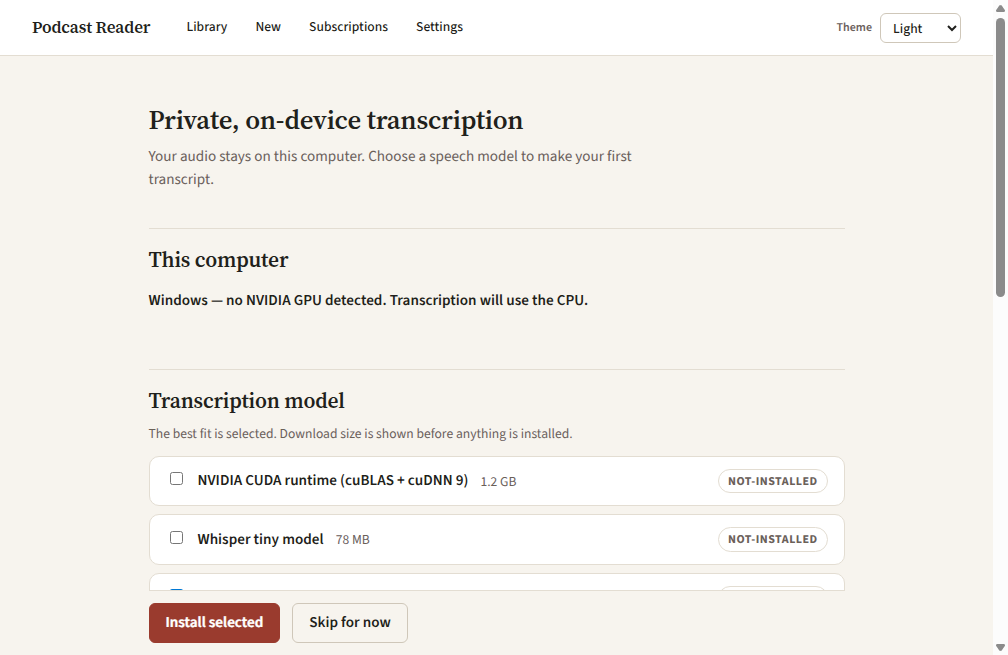
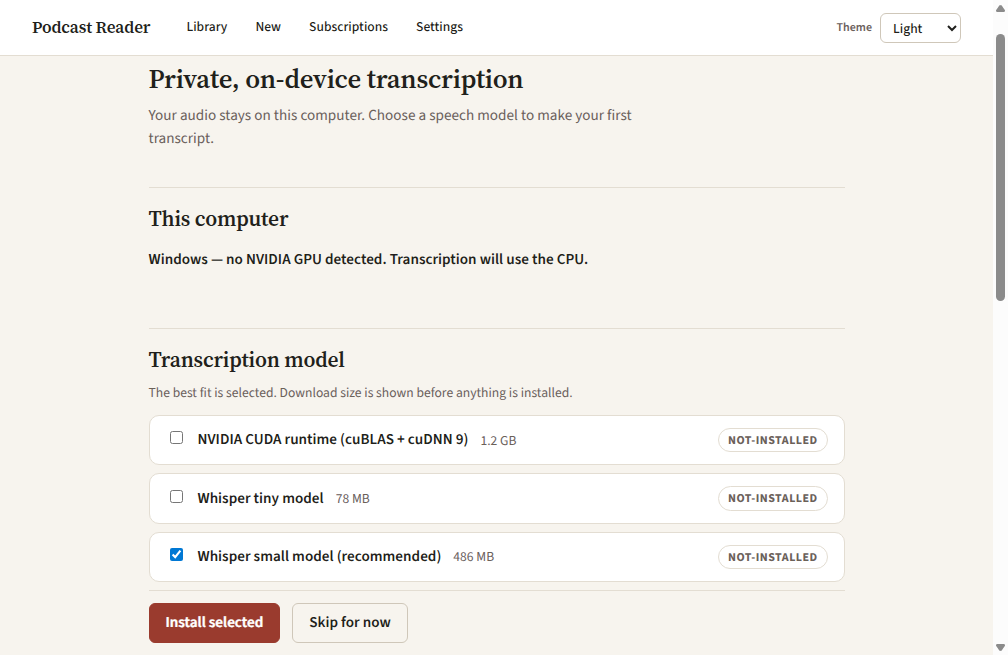
Refresh wizard screenshot provenance (#201)

diff --git a/site/assets/screenshots/DRIFT-WAIVERS.md b/site/assets/screenshots/DRIFT-WAIVERS.md
@@ -17,52 +17,3 @@ records are listed below; a record is active only until its stated expiry condit
 - Review: independent review is required before merge.
 - Expiry: this waiver applies only to PR #190 and expires when that PR merges. No
   follow-up issue is required because the affected files are test fixtures only.
-
-## Issue #194 — wizard clearance implementation stage
-
-- Scope: `app/src/renderer/src/views/setup.ts`, `app/src/renderer/src/style.css`,
-  `app/tests/e2e/packs.spec.ts`, and `app/tests/install/walkthrough.mjs`.
-- Reason: the renderer change must merge before an installed walkthrough can truthfully
-  capture it from exact main. The currently published first-run frame remains historical
-  evidence and is known to show the model-row overlap this change fixes.
-- Review: independently review the measured clearance and its 100%/125% Light/Dark
-  negative and positive-control geometry gates before merging the implementation stage.
-- Expiry: PR #196 has merged, but this record remains only until the required exact-main
-  24-frame metadata and affected published assets are refreshed after PR #198.
-
-## PR #198 — installed wizard capture visibility gate
-
-- Scope: `app/tests/install/walkthrough.mjs` only.
-- Reason: this is a test-only capture-gate correction; production renderer code and pixels
-  are unchanged. Exact-main run 31070139538 was deliberately withheld because the prior
-  gate admitted a first-run frame whose action bar was outside the viewport.
-- Review: independently review the positive-height and full-viewport action bounds while
-  retaining measured clearance and model-row/action non-overlap checks.
-- Expiry: PR #198 has merged, but run 31070934606 exposed the capture-coordinate defect
-  covered by PR #199. Remove this record with the validated post-#199 provenance refresh.
-
-## PR #199 — scrolled viewport screenshot coordinates
-
-- Scope: `app/tests/install/capture-evidence.mjs` and its focused unit test only.
-- Reason: this is test-evidence infrastructure; production renderer code and pixels are
-  unchanged. Exact-main run 31070934606 was deliberately withheld because its geometry
-  gate evaluated a scrolled viewport while the raw screenshot clip remained at document
-  origin, so the PNG did not depict the gated state.
-- Review: independently verify that viewport captures use scroll coordinates, full-page
-  captures remain origin-based, and the focused regression exercises nonzero offsets.
-- Expiry: PR #199 has merged, but run 31071454554 exposed the target-row mismatch covered
-  by PR #200. Remove this record with the validated post-#200 provenance refresh.
-
-## PR #200 — capture the wizard row that needed clearance
-
-- Scope: `app/tests/install/walkthrough.mjs` only.
-- Reason: this is a test-only capture-state correction; production renderer code and pixels
-  are unchanged. Exact-main run 31071454554 was deliberately withheld because it gated an
-  off-screen final row while the published viewport still showed an earlier row under the
-  sticky actions.
-- Review: independently verify that the walkthrough identifies the row intersecting the
-  action bar, scrolls that same row into measured clearance, and validates/captures that
-  same viewport at 100%/125% in Light/Dark.
-- Expiry: when PR #200 merges, immediately run the installed walkthrough at the resulting
-  exact main, publish validated 24/24 metadata and affected assets in a separately reviewed
-  provenance PR, and remove all active Issue #194, PR #198, PR #199, and PR #200 records.

diff --git a/site/assets/screenshots/PROVENANCE.md b/site/assets/screenshots/PROVENANCE.md
@@ -3,18 +3,18 @@
 These files are byte-for-byte copies from the authoritative installed Windows
 walkthrough on `main`. They have not been cropped, retouched, or recompressed.
 
-- Source commit: `cb3799c5bf06324f664d8b314d67efaadb652e88`
-- GitHub Actions run: `30973468118`
-- Artifact: `walkthrough-cb3799c5bf06324f664d8b314d67efaadb652e88`
[2 lines of base64/hex data omitted]
+- Source commit: `5aa1041372060a1df7a15ce405d9177a31c39592`
+- GitHub Actions run: `31072209812`
+- Artifact: `walkthrough-5aa1041372060a1df7a15ce405d9177a31c39592`
[2 lines of base64/hex data omitted]
 - Capture validation: 24/24 frames; empty renderer console; decoded PNGs with exact
   physical dimensions and pixel variance at or above 16
 
 | Committed filename | Source filename | SHA-256 |
 |---|---|---|
[8 lines of base64/hex data omitted]
